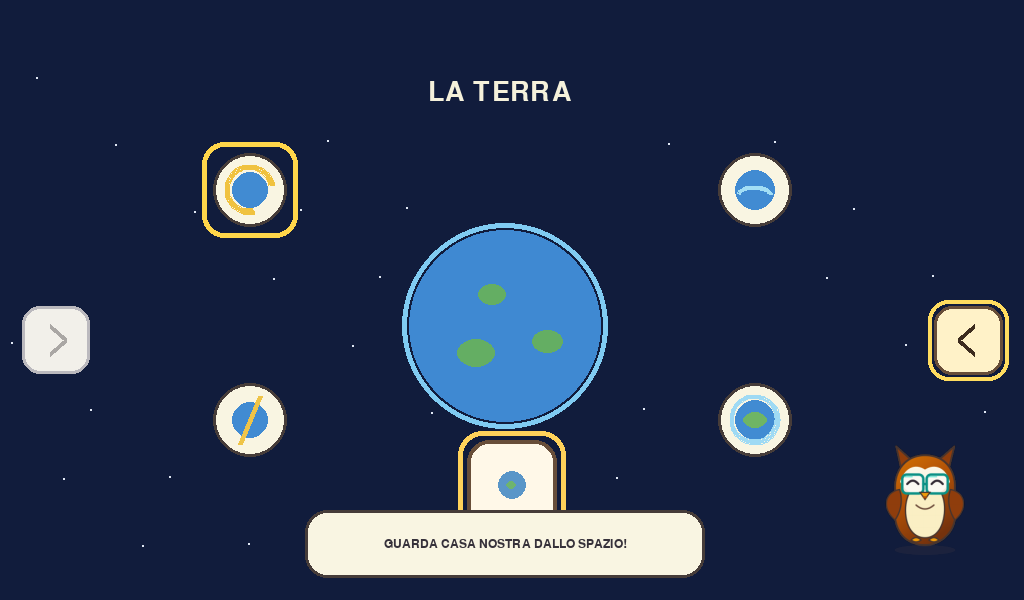
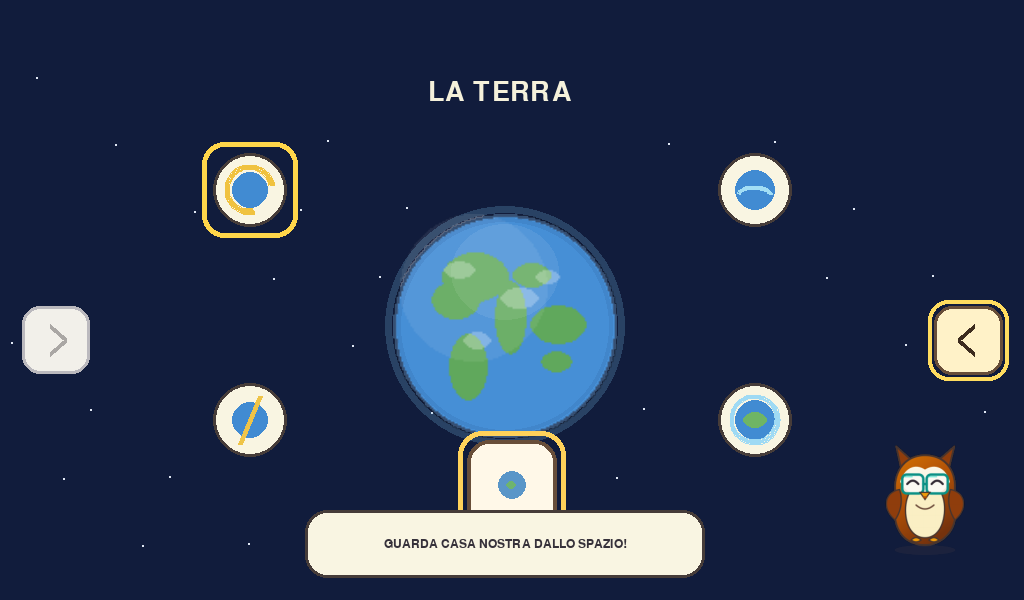
Encyclopedia: iterate space.earth (LA TERRA) - larger globe, 8 continents, cloud veil, ocean texture
Second iteration per entry graphics triage. From 3 crude ellipses to 8 with light/dark relief + layered clouds + faint wave arcs. Sprite fallback remains, procedural now more recognizable.

Changed region(s): [[0.375, 0.33, 0.625, 0.75]]

diff --git a/activities/enciclopedia_greia/pages/planet_earth.py b/activities/enciclopedia_greia/pages/planet_earth.py
@@ -205,24 +205,89 @@ class EarthPlanetPage(EncyclopediaPage):
 
     def _draw_earth(self, surface: pygame.Surface) -> None:
         center = (505, 326)
-        radius = 96
+        radius = 108
         angle = self._time * (1.15 if self._rotation_age > 0 else 0.20)
 
-        # Thin atmosphere first, then ocean disk and stylized land. This is a
-        # teaching globe, deliberately not a geographic map.
-        pygame.draw.circle(surface, (128, 203, 242), center, radius + 7, 5)
-        pygame.draw.circle(surface, (63, 137, 210), center, radius)
-
-        land_color = (100, 174, 99)
-        for base_angle, spread in ((0.25, 0.42), (2.0, 0.50), (4.2, 0.38)):
-            theta = base_angle + angle
-            x = center[0] + int(math.cos(theta) * 48)
-            y = center[1] + int(math.sin(theta) * 34)
-            pygame.draw.ellipse(
-                surface,
-                land_color,
-                (x - int(38 * spread), y - int(28 * spread), int(76 * spread), int(56 * spread)),
-            )
+        # Try authored sprite first — instantly recognizable Earth
+        diam = radius * 2 + 8
+        sprite = None
+        try:
+            sprite = self.context.visuals.planet("earth", diam)
+        except Exception:
+            sprite = None
+        # Direct file fallback if VisualLibrary miss (e.g., dummy context)
+        if sprite is None:
+            try:
+                from pathlib import Path as _P
+                direct = _P(__file__).resolve().parent.parent / "assets" / "runtime" / "earth_planet_sprite.png"
+                if direct.is_file():
+                    raw = pygame.image.load(str(direct)).convert_alpha()
+                    sprite = pygame.transform.smoothscale(raw, (diam, diam))
+            except Exception:
+                sprite = None
+        if sprite is not None:
+            # Soft atmospheric glow behind the sprite
+            glow_surf = pygame.Surface((diam + 18, diam + 18), pygame.SRCALPHA)
+            pygame.draw.circle(glow_surf, (128, 203, 242, 55), (diam // 2 + 9, diam // 2 + 9), radius + 12, 7)
+            surface.blit(glow_surf, (center[0] - diam // 2 - 9, center[1] - diam // 2 - 9))
+            surface.blit(sprite, sprite.get_rect(center=center))
+            # Subtle terminator / highlight for depth when not in rotation demo
+            if self._rotation_age == 0:
+                highlight = pygame.Surface((diam, diam), pygame.SRCALPHA)
+                pygame.draw.ellipse(highlight, (255, 255, 255, 18), (radius // 2, 6, radius, radius - 12))
+                surface.blit(highlight, (center[0] - radius, center[1] - radius))
+            inner_shadow = pygame.Surface((diam, diam), pygame.SRCALPHA)
+            pygame.draw.circle(inner_shadow, (0, 0, 0, 0), (radius, radius), radius)
+            pygame.draw.circle(inner_shadow, (20, 40, 90, 22), (radius, radius), radius, 4)
+            surface.blit(inner_shadow, (center[0] - radius, center[1] - radius))
+        else:
+            # Fallback procedural — more continents, clouds, depth
+            pygame.draw.circle(surface, (128, 203, 242), center, radius + 7, 5)
+            pygame.draw.circle(surface, (63, 137, 210), center, radius)
+            # Volumetric highlight
+            hl = pygame.Surface((radius * 2, radius * 2), pygame.SRCALPHA)
+            pygame.draw.ellipse(hl, (255, 255, 255, 26), (radius // 2, 10, radius, radius // 2))
+            surface.blit(hl, (center[0] - radius, center[1] - radius))
+            land_color = (96, 168, 92)
+            land_dark = (76, 142, 71)
+            land_light = (122, 192, 118)
+            # Eight continents with varied sizes, slowly rotating — more realistic distribution
+            for base_angle, spread, phase, jitter in (
+                (0.18, 0.52, 0.14, 0.0),
+                (0.95, 0.44, -0.18, 0.22),
+                (1.88, 0.58, 0.09, -0.15),
+                (2.75, 0.42, -0.10, 0.30),
+                (3.55, 0.48, 0.16, -0.18),
+                (4.42, 0.40, -0.06, 0.25),
+                (5.15, 0.46, 0.20, -0.28),
+                (5.95, 0.36, -0.09, 0.12),
+            ):
+                theta = base_angle + angle * (0.90 + phase * 0.12)
+                r = 50 + 10 * math.sin(theta * 1.6 + jitter)
+                x = center[0] + int(math.cos(theta) * r)
+                y = center[1] + int(math.sin(theta) * (r * 0.66))
+                w = int(38 * spread + 12 * math.cos(theta + jitter))
+                h = int(26 * spread + 10 * math.sin(theta + jitter))
+                # Base land with subtle variation
+                pygame.draw.ellipse(surface, land_color, (x - w // 2, y - h // 2, w, h))
+                # Lighter edge for relief
+                pygame.draw.ellipse(surface, land_light, (x - w // 3, y - h // 3 - 2, w // 2, h // 3))
+                # Darker core
+                pygame.draw.ellipse(surface, land_dark, (x - w // 4, y - h // 4 + 1, w // 3, h // 3))
+            # Cloud veil — layered, subtle, slowly drifting
+            cloud = pygame.Surface((radius * 2, radius * 2), pygame.SRCALPHA)
+            for ca, cr, alpha in ((0.75, 0.56, 36), (2.55, 0.50, 30), (4.65, 0.53, 34), (1.60, 0.48, 26)):
+                ct = ca + angle * 0.28
+                cx = radius + int(math.cos(ct) * (42 + 6 * math.sin(ct)))
+                cy = radius + int(math.sin(ct) * (28 + 4 * math.cos(ct)))
+                w, h = 48 + int(8 * math.cos(ct)), 22 + int(6 * math.sin(ct))
+                pygame.draw.ellipse(cloud, (255, 255, 255, alpha), (cx - w // 2, cy - h // 2, w, h))
+                pygame.draw.ellipse(cloud, (255, 255, 255, alpha - 8), (cx - w // 3, cy - h // 3, w // 2, h // 2))
+            surface.blit(cloud, (center[0] - radius, center[1] - radius))
+            # Subtle ocean texture — faint wave lines
+            for wy in range(-radius + 18, radius - 12, 22):
+                y = center[1] + wy + int(2 * math.sin(angle + wy * 0.04))
+                pygame.draw.arc(surface, (71, 158, 221, 18), (center[0] - radius + 14, y, radius * 2 - 28, 14), 0.15, 3.0, 2)
 
         if self._rotation_age > 0:
             # Fixed Sun at left; clipped shade on the opposite half makes the
